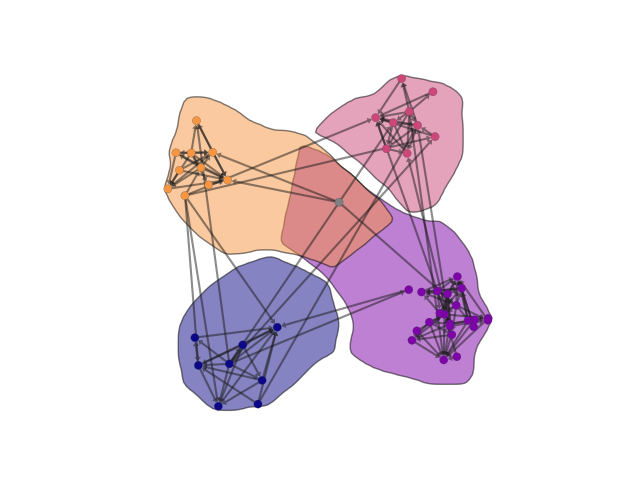
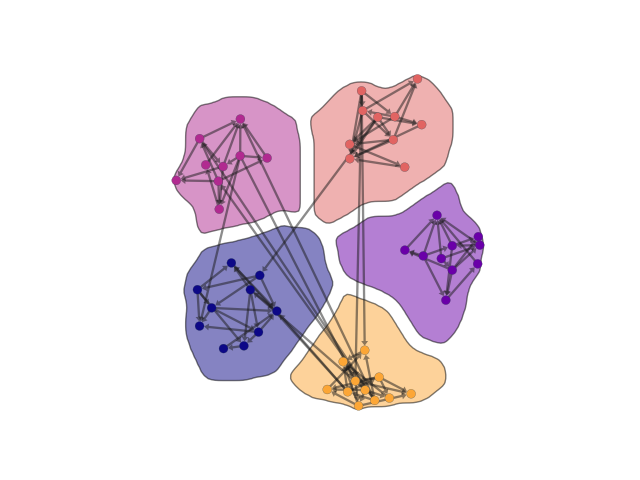
understanding colliders and superstructure

Changed region(s): [[0.25, 0.1562, 0.7812, 0.875]]

diff --git a/tests/test_sample_graphs.py b/tests/test_sample_graphs.py
@@ -1,0 +1,159 @@
+# Run superstructure creation, partition, local discovery and screening 
+# for a base case network with assumed community structure
+from cd_v_partition.utils import get_random_graph_data, get_data_from_graph, evaluate_partition
+from cd_v_partition.causal_discovery import pc, weight_colliders
+from cd_v_partition.overlapping_partition import oslom_algorithm
+from cd_v_partition.vis_partition import create_partition_plot
+import networkx as nx
+import numpy as np
+import pandas as pd
+import itertools
+import matplotlib.pyplot as plt               
+def sample_and_check_sanity(graph_type, n, p, k, ncommunities, alpha, collider_weight, nsamples, outdir):
+
+    # Create a random 'base' network 
+    (arcs, nodes, _, _), _ = get_random_graph_data(graph_type, num_nodes=n, nsamples=0, 
+                                                   iv_samples=0, p=p, k=k, save=False)
+    net = nx.DiGraph()
+    net.add_edges_from(arcs)
+    net.add_nodes_from(nodes)
+    
+    # Create a tiled network with community structure, save to dataset directory
+    print("Creating tiled net")
+    nodes = np.arange(n*ncommunities)
+    tiled_net = _construct_tiling( net, num_tiles=ncommunities)
+    
+    print("Generate data")
+    # Generate data from the tiled network
+    (arcs, nodes, _, _), df = get_data_from_graph( nodes, list(tiled_net.edges()),
+                                                  nsamples=nsamples, iv_samples=0, save=False, 
+                                                  outdir=outdir)
+    
+    # Use the data to generate a superstructure using the pc algorithm
+    data = df.drop(columns=['target'])
+    data = data.to_numpy()
+    superstructure, p_values = pc(data, alpha=alpha, outdir=outdir) 
+    superstructure = weight_colliders(superstructure, weight=collider_weight)
+    
+    # Checks for sanity 
+    percent_colliders = _count_colliders(tiled_net)
+    num_wrong = _check_superstructure(superstructure, nx.adjacency_matrix(tiled_net, nodelist=np.arange(len(nodes))))
+
+    return num_wrong, percent_colliders 
+
+
+def _construct_tiling(net, num_tiles):
+    """Helper function to construct the tiled/community network from a base net.
+    The tiling is done so that nodes in one community are preferentially attached 
+    (proportional to degree) to nodes in other communities.
+
+    Args:
+        net (nx.DiGraph): the directed graph for one community
+        num_tiles (int): the number of tiles or communities to create
+
+    Returns:
+        nx.DiGraph: the final directed graph with community structure
+    """
+    num_nodes = len(list(net.nodes()))
+    degree_sequence = sorted((d for _, d in net.in_degree()), reverse=True)
+    dmax = max(degree_sequence)
+    tiles = [net for _ in range(num_tiles)]
+    
+    # First add all communities as disjoint graphs
+    tiled_graph = nx.disjoint_union_all(tiles)
+    
+    # Each node is preferentially attached to other nodes 
+    # The number of attached nodes is given by a probability distribution over
+    # A = 1, 2 ... min(dmax,4) where the probability is equal to the in_degree=A/number of nodes
+    # in the community 
+    A = np.min([dmax, 4])
+    in_degree_a = [sum(np.array(degree_sequence)==a) for a in range(A)]
+    leftover = num_nodes-sum(in_degree_a)
+    in_degree_a[-1] += leftover
+    probs = np.array(in_degree_a)/(num_nodes)
+    
+    # Add connections based on random choice over probability distribution
+    for t in range(1,num_tiles):
+        for i in range(num_nodes):
+            node_label = t*num_nodes + i
+            if len(list(tiled_graph.predecessors(node_label))) == 0:
+                num_connected = np.random.choice(np.arange(A),size=1, p=probs)
+                dest = np.random.choice(np.arange(t*num_nodes),size=num_connected)
+                connections = [(node_label, d) for d in dest]
+                tiled_graph.add_edges_from(connections)
+    return tiled_graph
+
+def _count_colliders(G):
+    """Helper function to count the number of colliders in the graph G. For every
+    triple x-y-z determine if the edges are in a collider orientation. This counts
+    as one collider set. 
+
+    Args:
+        G (nx.DiGraph): Directed graph
+
+    Returns:
+        int: number of collider sets in the graph
+    """
+    num_colliders = 0
+    non_colliders = 0
+    
+    # Find all triples x-y-z
+    for (x,y,z) in itertools.permutations(G.nodes, 3):
+        if G.has_edge(x,y) and G.has_edge(z,y):
+            num_colliders += 1
+        elif G.has_edge(x,y) and G.has_edge(y,z):
+            non_colliders +=1
+        elif G.has_edge(y,x) and G.has_edge(z,y):
+            non_colliders +=1
+        elif G.has_edge(y,x) and G.has_edge(y,z):
+            non_colliders +=1
+    return num_colliders/(num_colliders + non_colliders)
+
+# Check that this is a superstructure 
+def _check_superstructure(S, G):
+    """Make sure that S is a superstructure of G. This means all edges in G are constrained 
+       by S. 
+    
+
+    Args:
+        S (np.ndarray): adjacency matrix for the superstructure
+        G (np.ndattay): adjacency matrix for the DAG 
+    """
+    num_wrong = 0
+    for row in np.arange(S.shape[0]):
+        for col in np.arange(S.shape[1]):
+            if G[row,col] == 1:
+                if S[row,col] == 0:
+                    num_wrong+=1
+    #assert(np.sum(G>0) < np.sum(S>0))
+    return num_wrong/np.sum(G>0)        
+
+    
+if __name__ == '__main__':
+    graph_types = ['erdos_renyi', 'scale_free', 'small_world']
+    niters=10
+    p_range = np.arange(0.2,1,0.2)
+    k_range = np.arange(2,10,2)
+    fig,axs = plt.subplots(len(p_range),len(k_range), figsize=(10,10), sharex = True, sharey=True)
+
+    for i,p in enumerate(p_range):
+        for j,k in enumerate(k_range):
+            collider_metrics_by_graph_type = []
+            ss_metrics_by_graph_type = []
+            for g in graph_types:
+                print(g, p, k)
+                metrics = np.zeros(niters)
+                for n in range(niters):
+                    ss_metric, collider_metric = sample_and_check_sanity(g, n=10, p=p, k=k, ncommunities=5, 
+                                        alpha=0.1, collider_weight=10, nsamples=int(1e6),
+                                        outdir="./datasets/base_case_sweep/")
+                    metrics[n] = ss_metric
+                ss_metrics_by_graph_type.append(metrics)
+
+                axs[i][j].violinplot(ss_metrics_by_graph_type, showmeans=True, showmedians=False)
+                axs[i][j].set_xticks(np.arange(1,len(graph_types)+1),
+                            labels=graph_types, rotation=45)
+                axs[i][j].set_title("p={:.1f}, k={:.1f}".format(p,k))
+    fig.suptitle("Fraction of wrong superstructure edges compared to edges in G")
+    plt.savefig("./tests/sample_ss_by_graph.png")
+    

diff --git a/examples/run_base_case.py b/examples/run_base_case.py
@@ -8,6 +8,7 @@ import networkx as nx
 import numpy as np
 import pandas as pd
 import argparse
+import itertools
 
 def get_args():
     parser = argparse.ArgumentParser()
@@ -73,6 +74,7 @@ def create_base_case_net(graph_type, n, p, k, ncommunities, alpha, collider_weig
     net.add_nodes_from(nodes)
     
     # Create a tiled network with community structure, save to dataset directory
+    print("Creating tiled net")
     nodes = np.arange(n*ncommunities)
     tiled_net = _construct_tiling( net, num_tiles=ncommunities)
     df_edges = pd.DataFrame(list(tiled_net.edges))
@@ -81,6 +83,7 @@ def create_base_case_net(graph_type, n, p, k, ncommunities, alpha, collider_weig
     df = pd.DataFrame(adj_mat)
     df.to_csv("{}/tiled.csv".format(outdir), index=False)
     
+    print("Generate data")
     # Generate data from the tiled network
     (arcs, nodes, _, _), df = get_data_from_graph( nodes, list(tiled_net.edges()),
                                                   nsamples=nsamples, iv_samples=0, save=True, 
@@ -91,7 +94,7 @@ def create_base_case_net(graph_type, n, p, k, ncommunities, alpha, collider_weig
     data = data.to_numpy()
     superstructure, p_values = pc(data, alpha=alpha, outdir=outdir) 
     superstructure = weight_colliders(superstructure, weight=collider_weight)
-    weights = np.multiply(superstructure, np.abs(p_values)) # p_values are negative? pc algorithm pMax matrix is confusing, for now take absolute value 
+    weights = superstructure #np.multiply(superstructure, np.abs(p_values)) # p_values are negative? pc algorithm pMax matrix is confusing, for now take absolute value 
     superstructure_net = nx.from_numpy_array(weights, create_using=nx.Graph)
     
     # Save the super structure edges and weighted superstructure edges               
@@ -103,7 +106,7 @@ def create_base_case_net(graph_type, n, p, k, ncommunities, alpha, collider_weig
     
     # Checks for sanity 
     print("Number of colliders: {}".format(_count_colliders(tiled_net)))
-    #check_superstructure(superstructure, nx.adjacency_matrix(tiled_net, nodelist=np.arange(len(nodes))))
+    _check_superstructure(superstructure, nx.adjacency_matrix(tiled_net, nodelist=np.arange(len(nodes))))
 
     return superstructure_net, df
 
@@ -161,18 +164,23 @@ def _count_colliders(G):
         int: number of collider sets in the graph
     """
     num_colliders = 0
-    collider_nodes = []
+    non_colliders = 0
+    
     # Find all triples x-y-z
-    for (x,y,z) in nx.all_triplets(G):
+    for (x,y,z) in itertools.permutations(G.nodes, 3):
         if G.has_edge(x,y) and G.has_edge(z,y):
             num_colliders += 1
-            collider_nodes.append(y)
-    print( len(set(collider_nodes)))
-    return num_colliders
+        elif G.has_edge(x,y) and G.has_edge(y,z):
+            non_colliders +=1
+        elif G.has_edge(y,x) and G.has_edge(z,y):
+            non_colliders +=1
+        elif G.has_edge(y,x) and G.has_edge(y,z):
+            non_colliders +=1
+    return num_colliders, num_colliders/(num_colliders + non_colliders)
 
 # Check that this is a superstructure 
 def _check_superstructure(S, G):
-    """Make sure that S is a superstructure of G. This means all edges in G are contrained 
+    """Make sure that S is a superstructure of G. This means all edges in G are constrained 
        by S. 
     
 
@@ -180,17 +188,19 @@ def _check_superstructure(S, G):
         S (np.ndarray): adjacency matrix for the superstructure
         G (np.ndattay): adjacency matrix for the DAG 
     """
+    num_wrong = 0
     for row in np.arange(S.shape[0]):
         for col in np.arange(S.shape[1]):
             if G[row,col] == 1:
-                print(row,col)
-                assert(S[row,col]>0)
-                
+                if S[row,col] == 0:
+                    num_wrong+=1
+    print("Number of missed edges in superstructure (which has {} edges) {} out of {} edges".format(np.sum(S>0),num_wrong,  np.sum(G>0)))         
+       
 if __name__ == '__main__':
     args = get_args()
     if args.create:
-        create_base_case_net('scale_free', n=10, p=0.9, k=5, ncommunities=5, 
-                            alpha=0.5, collider_weight=10, nsamples=int(1e5),
+        create_base_case_net('erdos_renyi', n=10, p=0.4, k=2, ncommunities=5, 
+                            alpha=1e-1, collider_weight=10, nsamples=int(1e6),
                             outdir="./datasets/base_case/")
     st_types = ['dag', 'superstructure', 'superstructure_weighted']
     for t in st_types:
